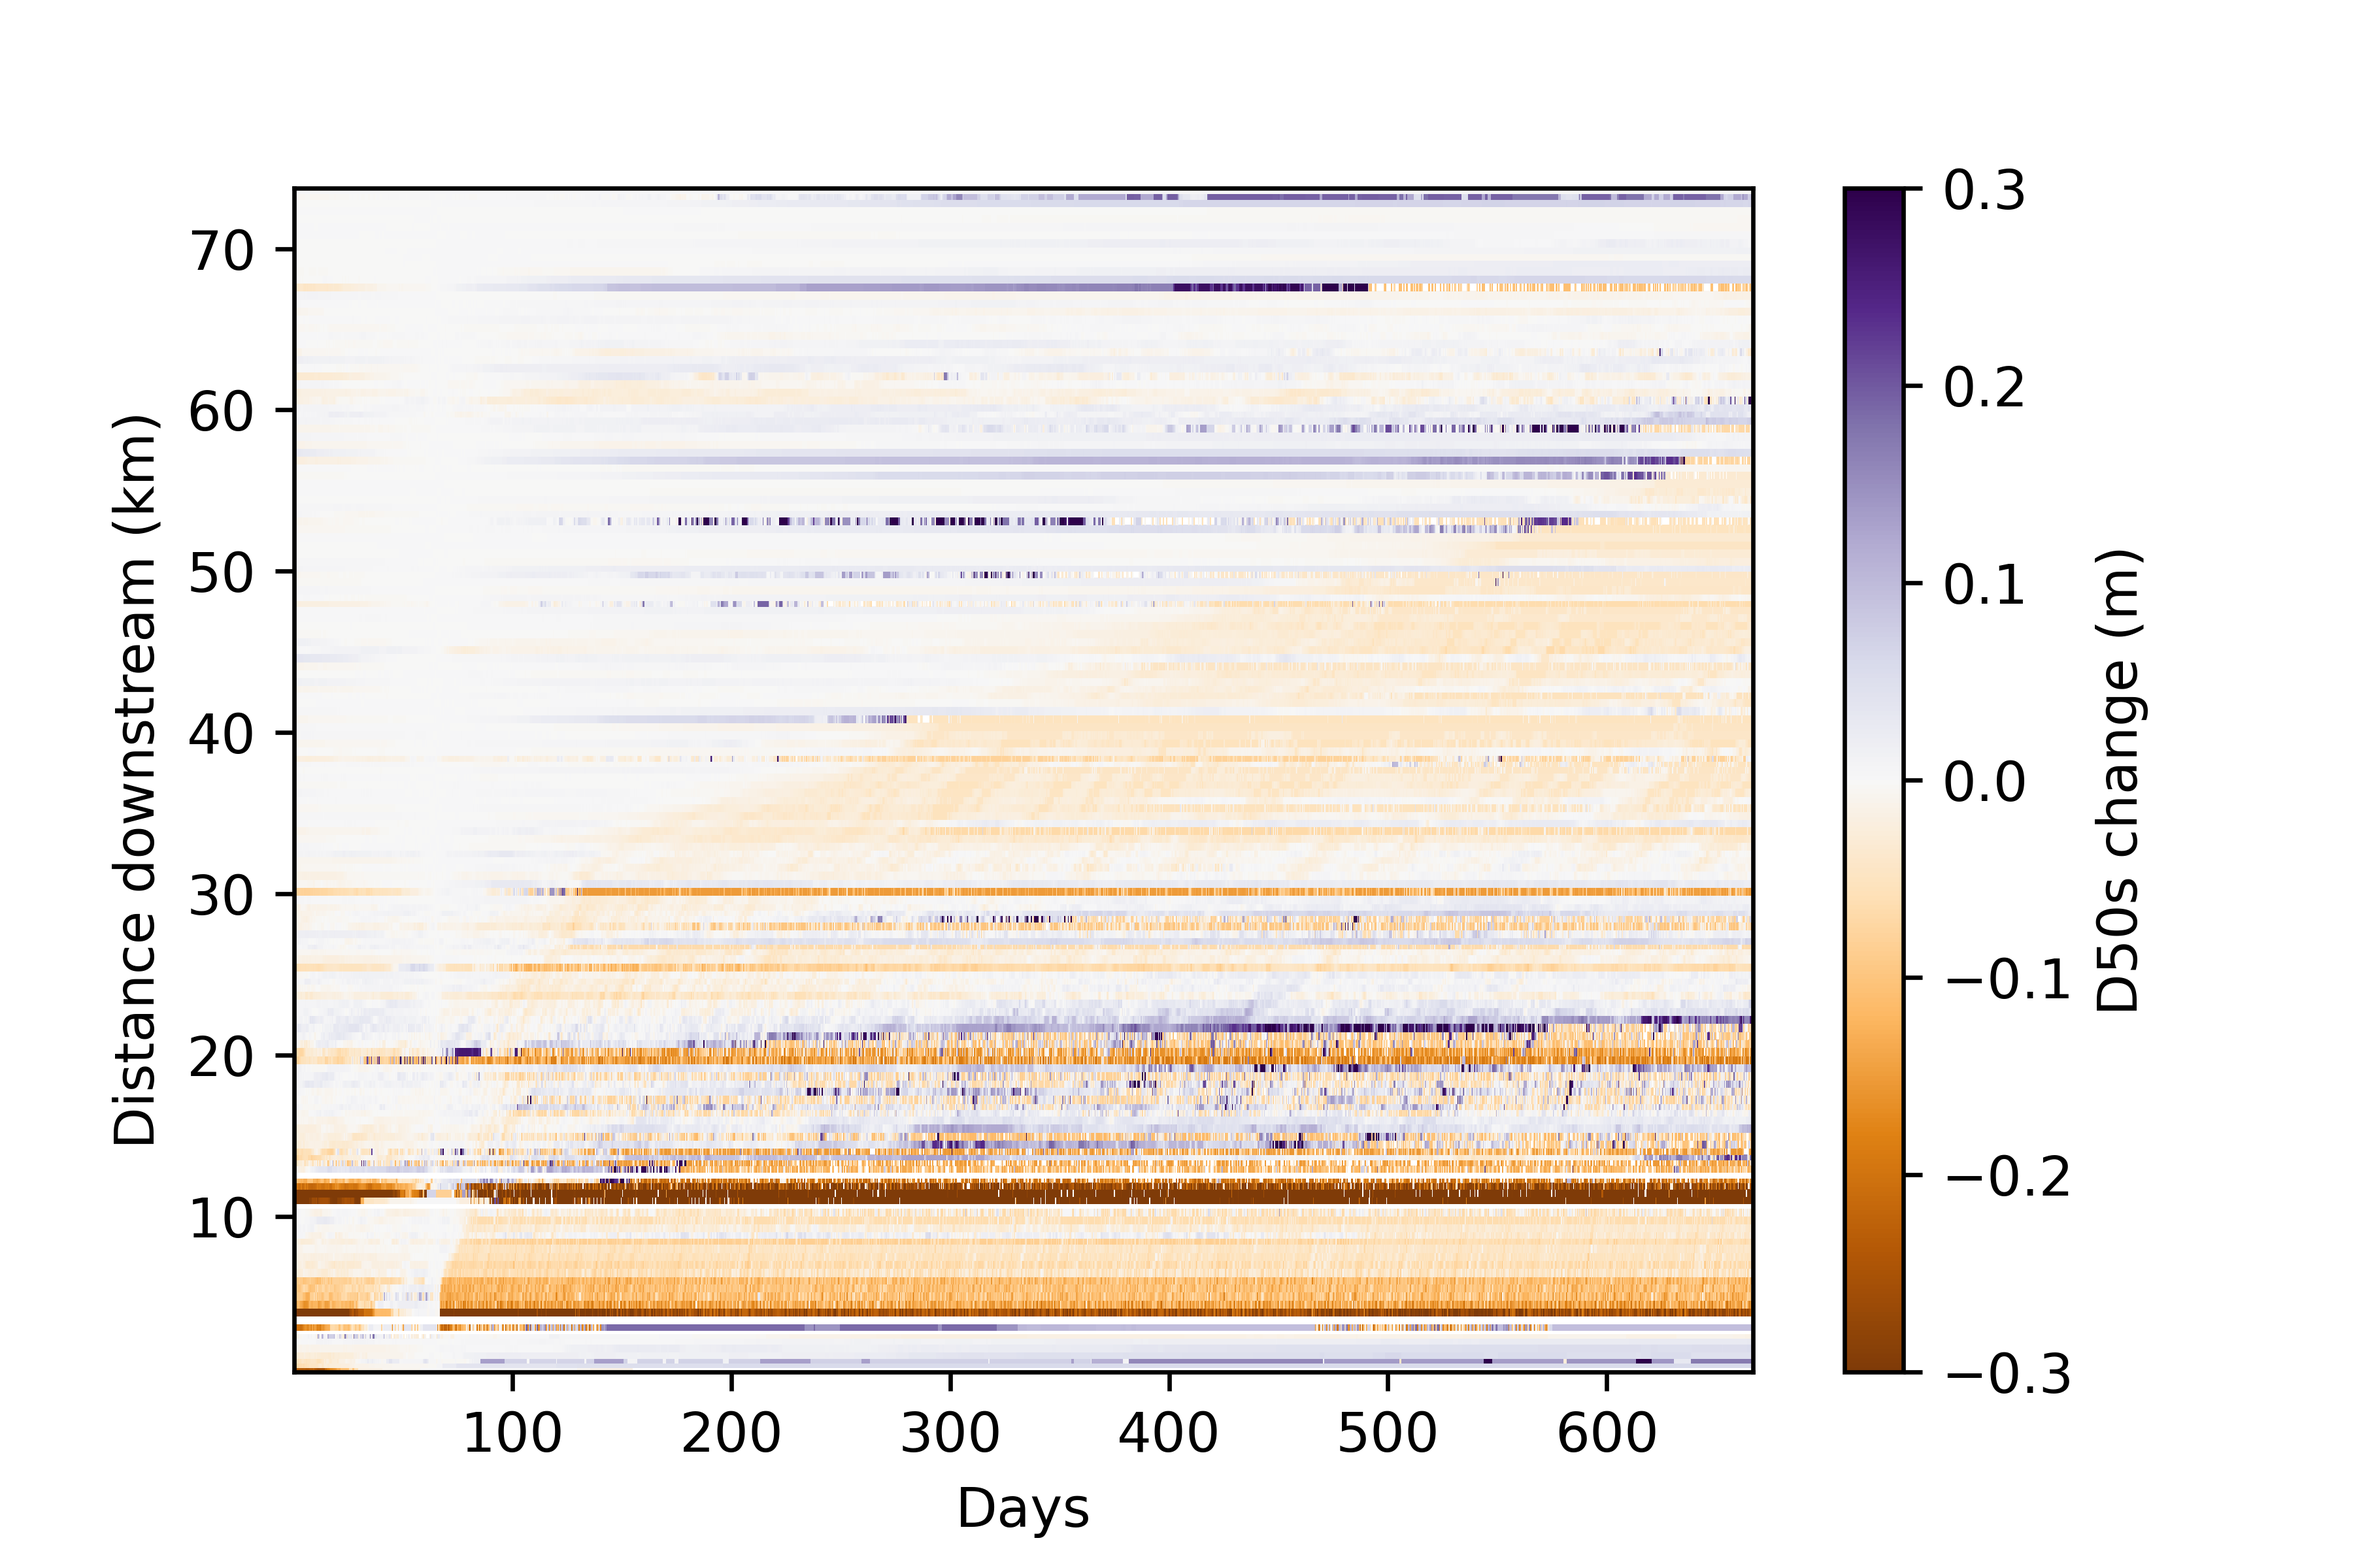
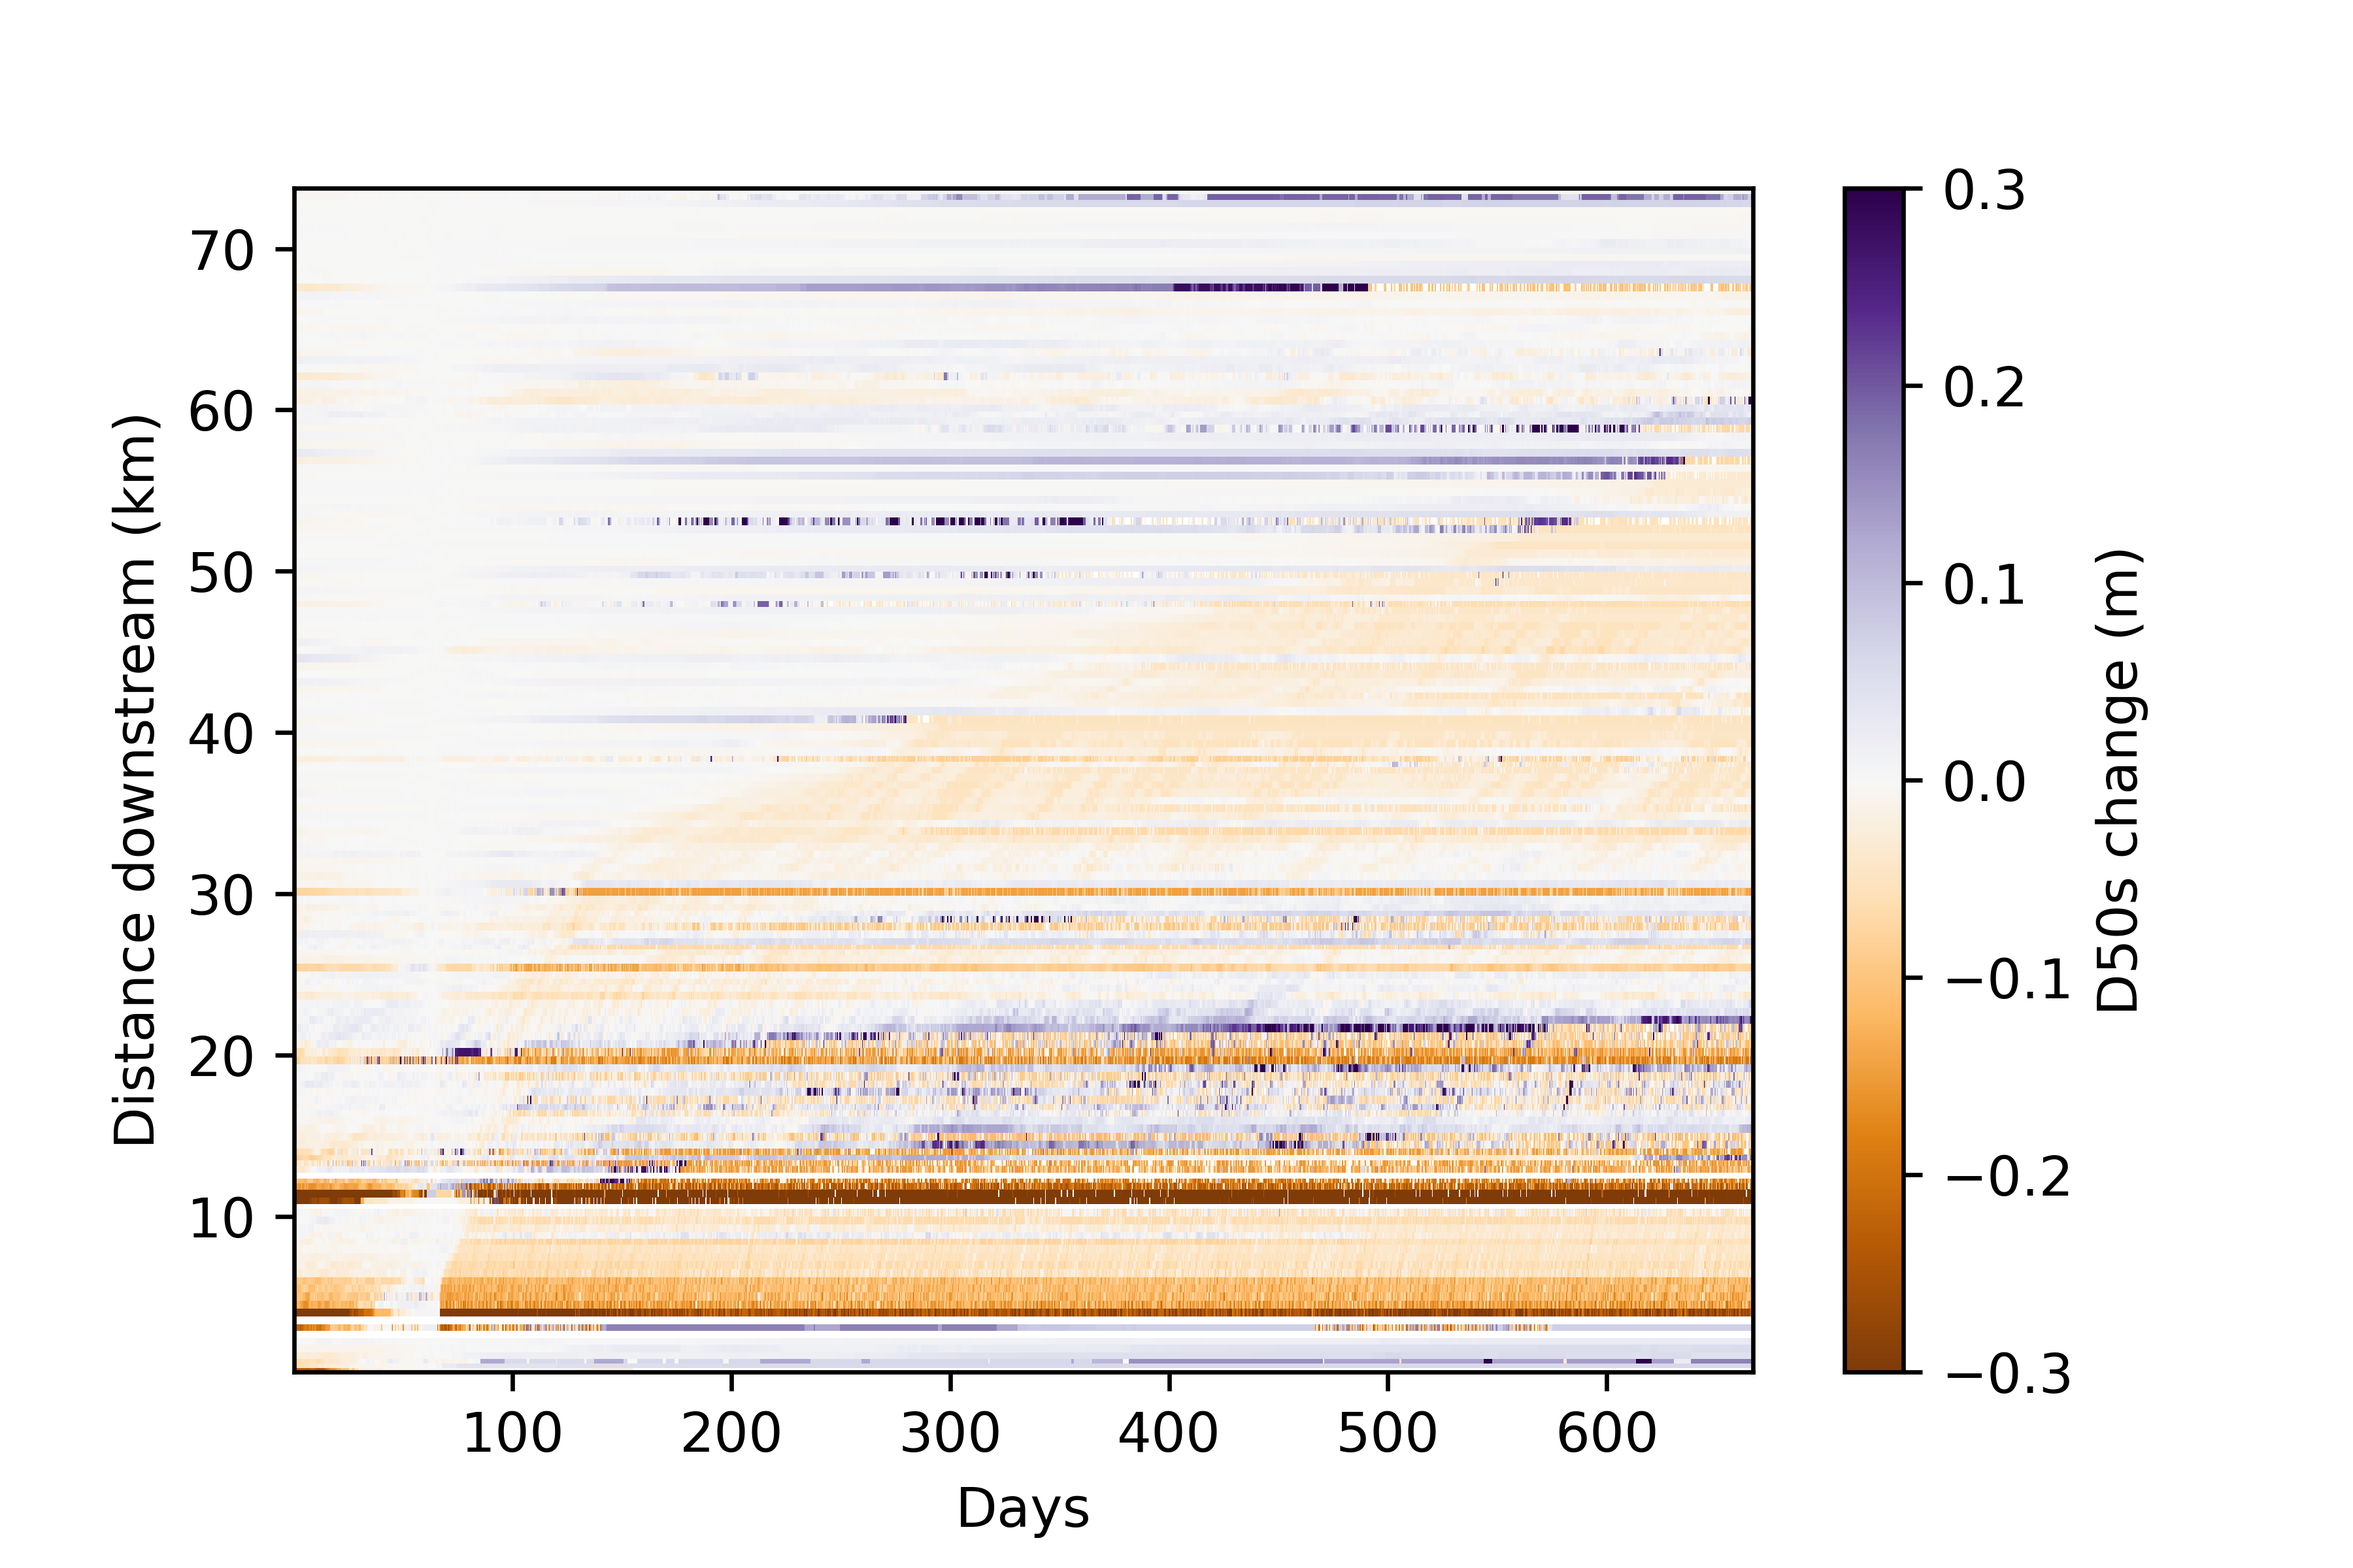
change D50s figs 20 day avg

diff --git a/NST_Suiattle_Feb_5.py b/NST_Suiattle_Feb_5.py
@@ -811,7 +811,9 @@ writer.finish()
 
 # %% Variable bookkeeping - downstream sorting, etc
 
-pre_pulse_D50s = D50s_each_link[:, pulse_time-1].reshape(-1, 1)  # Reshape to (number_of_links, 1) for broadcasting
+pre_pulse_D50s = np.mean(D50s_each_link[:, pulse_time-20:pulse_time-1],axis = 1) # average of 10 timesteps before
+pre_pulse_D50s = pre_pulse_D50s.reshape(-1, 1)
+
 Change_D50s_each_link = D50s_each_link - pre_pulse_D50s
 
 pre_pulse_Dmean = D_mean_active_each_link[:, pulse_time-1].reshape(-1, 1)  # Reshape to (number_of_links, 1) for broadcasting
@@ -1328,14 +1330,14 @@ element_ids = parcels.dataset.element_id.values
 recycle = parcels.dataset["recycle_destination"].values
 
 
-np.savez("All_3.npz", mask_here=mask_here, time_arrival=time_arrival, volumes=volumes,current_link=current_link, this_links_parcels=this_links_parcels,
+np.savez("All_scenario3.npz", mask_here=mask_here, time_arrival=time_arrival, volumes=volumes,current_link=current_link, this_links_parcels=this_links_parcels,
           time_arrival_sort=time_arrival_sort,
           parcel_id_time_sorted=parcel_id_time_sorted, vol_ordered_filo=vol_ordered_filo, cumvol_orderedfilo=cumvol_orderedfilo,
           effectiveheight_orderedfilo=effectiveheight_orderedfilo, source_orderedfilo=source_orderedfilo, active_orderedfilo=active_orderedfilo,
         location_in_link_orderedfilo=location_in_link_orderedfilo, D_orderedfilo=D_orderedfilo)
 
 
-np.savez("P_3.npz", sediment_active_percent=sediment_active_percent, num_pulse_each_link_DS=num_pulse_each_link_DS, 
+np.savez("P_scenario3.npz", sediment_active_percent=sediment_active_percent, num_pulse_each_link_DS=num_pulse_each_link_DS, 
          num_total_parcels_each_link_DS=num_total_parcels_each_link_DS, num_active_pulse_nozero_DS=num_active_pulse_nozero_DS, 
          vol_pulse_nozero_DS=vol_pulse_nozero_DS, vol_nozero_DS=vol_nozero_DS, D_mean_pulse_each_link_nozero_DS=D_mean_pulse_each_link_nozero_DS,
          percent_active_pulse_DS=percent_active_pulse_DS, percent_active_DS=percent_active_DS, Elev_change_DS=Elev_change_DS, Sed_flux=Sed_flux,
